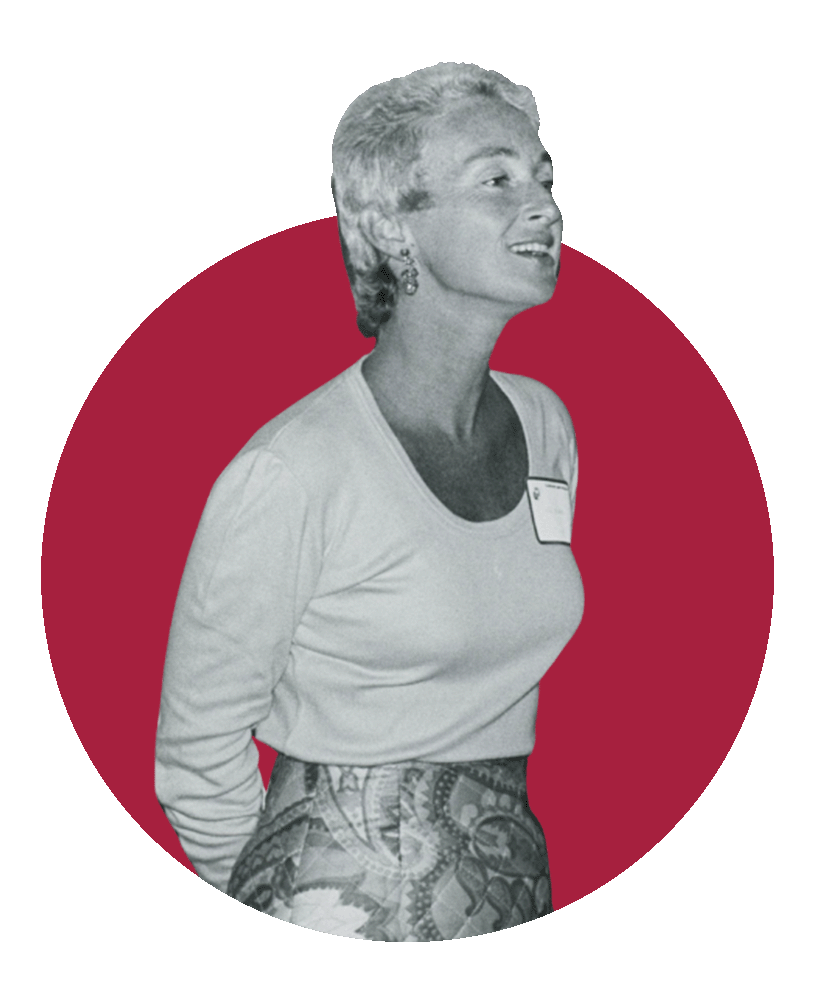
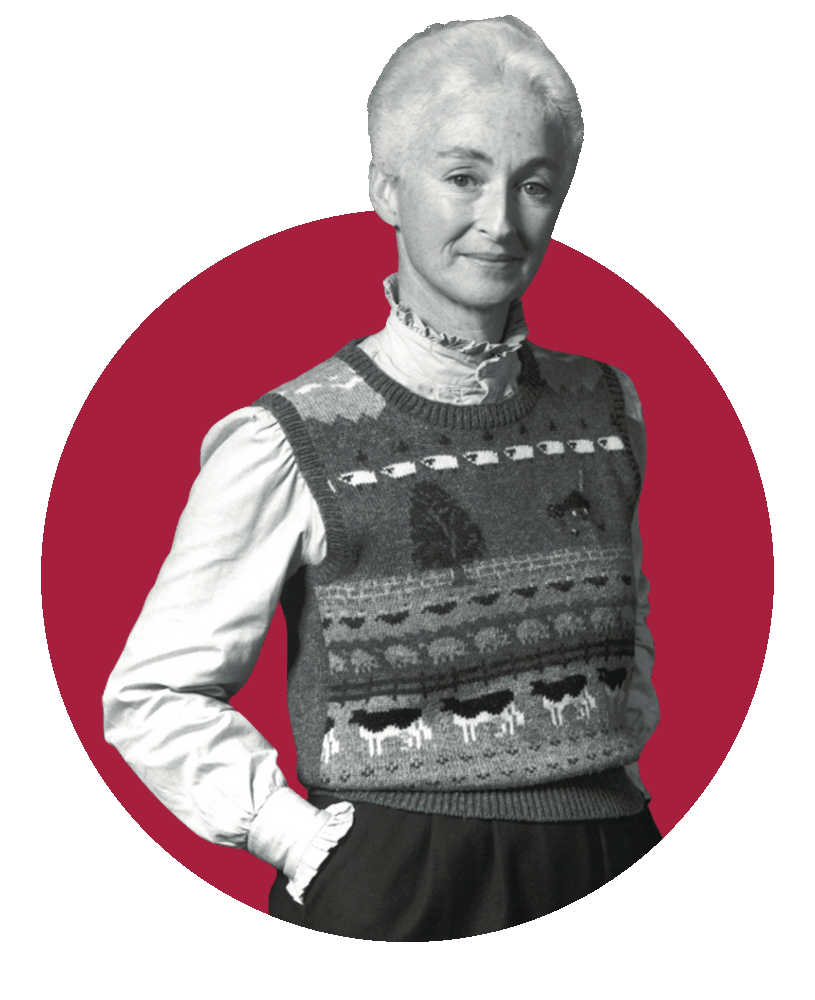
Commit

diff --git a/src/components/decades/1980s/Event7.jsx b/src/components/decades/1980s/Event7.jsx
@@ -1,4 +1,5 @@
 import "./style-1980.css";
+import profile-laura from "../../../"
 
 const Event7 = () => {
   return (
@@ -27,7 +28,7 @@ const Event7 = () => {
         </p>
       </div>
       <div className="col-3">
-        <img src="/src/assets/1980s-placeholder-duo.png"></img>
+        <img src={profile-laura}></img>
       </div>
     </div>
   );
